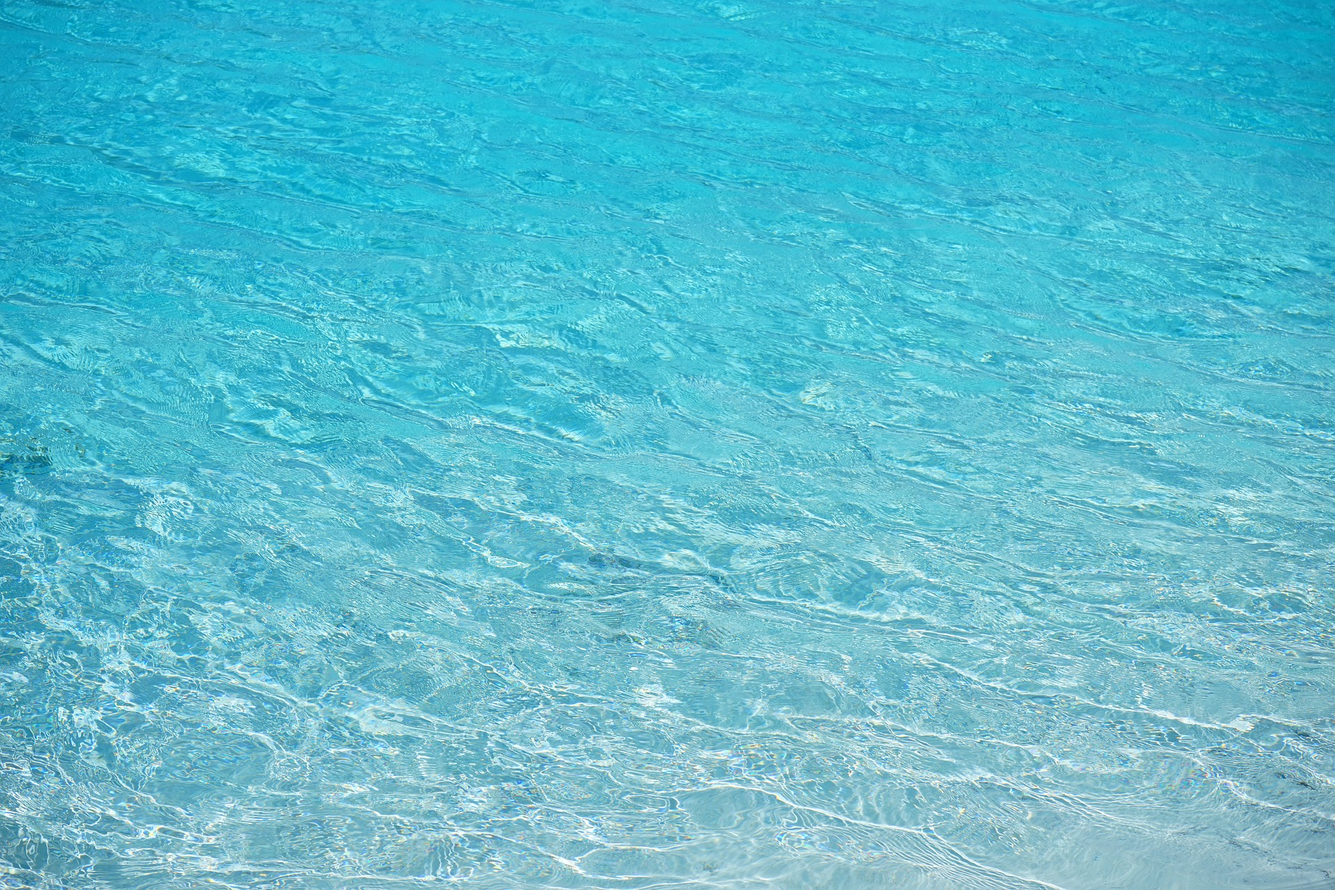
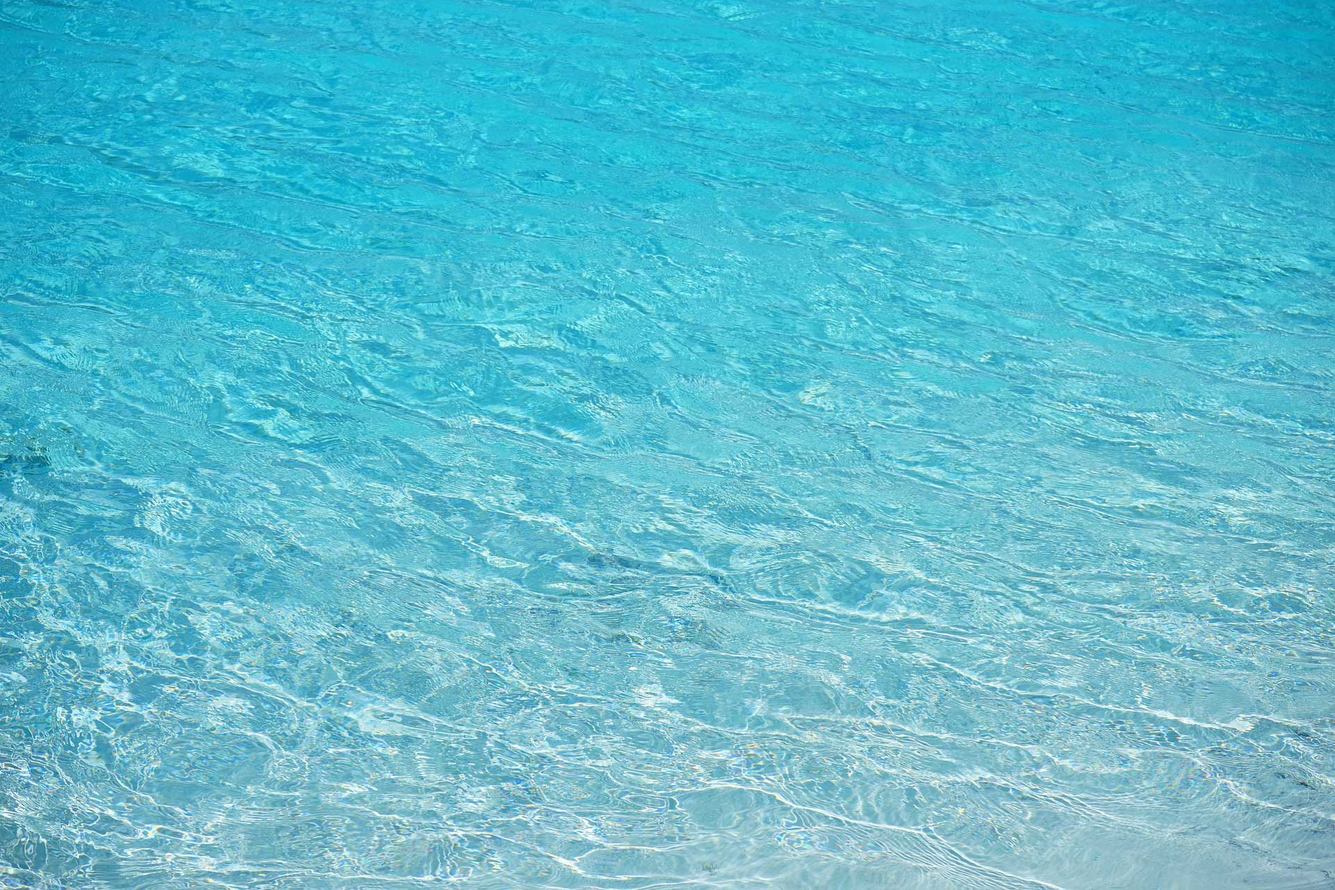
new home and problem page backgrounds

diff --git a/src/views/Home.vue b/src/views/Home.vue
@@ -35,7 +35,7 @@ export default {
 </script>
 
 <style scoped>
-  .content--wrap { background-image: url('../assets/home.png'); }
+  .content--wrap { background-image: url('../assets/home.jpg'); }
   .content--wrap::before { background: none; }
   .content--wrap { align-items: center; }
   
